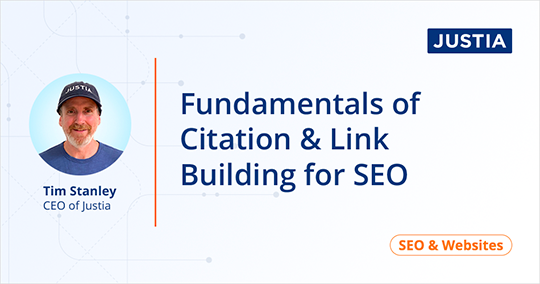
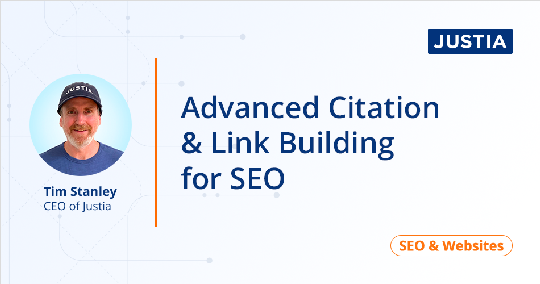
feat: add two weeks and one week blasts

diff --git a/dist/webinar-two-week-registered.html b/dist/webinar-two-week-registered.html
@@ -149,7 +149,7 @@
                   <table border="0" cellpadding="0" cellspacing="0" align="center" width="100%">
                     <tr>
                       <td class="justia01 justia03" style="padding:50px 0 0" align="center">
-                        <a href="https://us06web.zoom.us/webinar/register/4316612882330/WN_1zpGwoa1R1m5eNWIK7RCYw" target="_blank" style="text-decoration:none;color:#06357a"><img src="https://justatic.com/v/0/emails/images/newsletters/2022/09/webinar-registration.jpg" alt border="0" style="display:block;max-width:100%" width="540"/></a>
+                        <a href="https://us06web.zoom.us/webinar/register/4316612882330/WN_1zpGwoa1R1m5eNWIK7RCYw" target="_blank" style="text-decoration:none;color:#06357a"><img src="https://justatic.com/v/0/emails/images/newsletters/2022/09/webinar-registered.jpg" alt border="0" style="display:block;max-width:100%" width="540"/></a>
                       </td>
                     </tr>
                   </table>
@@ -174,24 +174,15 @@
             <tr>
               <td class="justia01" style="padding:0 30px 50px" align="center">
                 <div style="display:block;border:1px solid #e6e6e6;border-radius:10px;padding:25px 24px 15px">
-                  <p style="font:16px/1.5 Arial,sans-serif;margin:0 0 25px;text-align:left;color:#000">Name,</p>
+                  <p style="font:16px/1.5 Arial,sans-serif;margin:0 0 25px;text-align:left;color:#000">Hi Name,</p>
+                  <p style="font:16px/1.5 Arial,sans-serif;margin:0 0 25px;text-align:left;color:#000">In two short weeks, you will be learning advanced internal and external linking strategies, how to analyze your law firm website’s backlink profile, and more in our members-only webinar with Justia CEO Tim Stanley!</p>
                   <p style="font:16px/1.5 Arial,sans-serif;margin:0 0 25px;text-align:left;color:#000">
-                    Today’s the day! <b><a href="https://us06web.zoom.us/webinar/register/4316612882330/WN_1zpGwoa1R1m5eNWIK7RCYw" target="_blank" style="text-decoration:none;color:#06357a;text-align:left;font-weight:700">Registration is open</a></b> to all Justia Connect members for our next Justia Webinar.
+                    You should have received an email from Zoom with your unique access link for this webinar. If you have not already received this email from Zoom, please <b><a href="http://support.justia.com/" target="_blank" style="text-decoration:none;color:#06357a;text-align:left;font-weight:700">contact Justia Support</a></b> for assistance.
                   </p>
-                  <p style="font:16px/1.5 Arial,sans-serif;margin:0 0 25px;text-align:left;color:#000">We’re continuing our series on law firm website SEO on September 28, 2022 when Justia CEO Tim Stanley explores advanced strategies for citation and link building to improve your site’s performance in Google Search results.</p>
                   <div>
-                    <p style="font:16px/1.5 Arial,sans-serif;color:#000;margin:0;text-align:center">
-                      <b>Seats are going fast!<br />Don’t miss your chance to join this exclusive presentation.</b>
+                    <p style="font:16px/1.5 Arial,sans-serif;text-align:center;color:#000;padding:12px 0;margin:0 0">
+                      <b>Can’t make your webinar?</b> The recording will be available to Justia Connect Pros. Unlock access when you <b><a href="#" target="_blank" style="text-decoration:none;color:#06357a;text-align:left;font-weight:700">Go Pro!</a></b>
                     </p>
-                  </div>
-                  <div style="padding:25px 30px 15px;text-align:center">
-                    <div>
-                      <!--[if gte mso 9]><v:roundrect xmlns:v="urn:schemas-microsoft-com:vml" xmlns:w="urn:schemas-microsoft-com:office:word" href="https://us06web.zoom.us/webinar/register/4316612882330/WN_1zpGwoa1R1m5eNWIK7RCYw" style="width:250px;height:50px;v-text-anchor:middle" arcsize="8%" strokecolor="#e2231a" fillcolor="#e2231a"><w:anchorlock /><center style="color:#ffffff;font:bold 16px Arial,sans-serif">Get on the Guest List</center></v:roundrect><![endif]-->
-                      <a href="https://us06web.zoom.us/webinar/register/4316612882330/WN_1zpGwoa1R1m5eNWIK7RCYw" style="font-weight:700;display:inline-block;border:1px solid #e2231a;border-radius:4px;background-color:#e2231a;color:#fff;width:248px;text-align:center;text-decoration:none;-webkit-text-size-adjust:none;mso-hide:all;font:bold 16px/48px Arial,sans-serif" target="_blank">Get on the Guest List</a>
-                    </div>
-                  </div>
-                  <div>
-                    <p style="font:16px/1.5 Arial,sans-serif;text-align:center;color:#000;padding:12px 0;margin:0 0"><b>Already registered?</b><br />No need to register again! We have you on our list and look forward to seeing you on September 28.</p>
                   </div>
                 </div>
               </td>

diff --git a/dist/webinar-two-week-unregistered.html b/dist/webinar-two-week-unregistered.html
@@ -175,19 +175,14 @@
               <td class="justia01" style="padding:0 30px 50px" align="center">
                 <div style="display:block;border:1px solid #e6e6e6;border-radius:10px;padding:25px 24px 15px">
                   <p style="font:16px/1.5 Arial,sans-serif;margin:0 0 25px;text-align:left;color:#000">Name,</p>
+                  <p style="font:16px/1.5 Arial,sans-serif;margin:0 0 25px;text-align:left;color:#000">Ever wondered how to respond to a Google penalty? Want to know more about tools for analyzing your backlink profile? We have answers!</p>
                   <p style="font:16px/1.5 Arial,sans-serif;margin:0 0 25px;text-align:left;color:#000">
-                    Today’s the day! <b><a href="https://us06web.zoom.us/webinar/register/4316612882330/WN_1zpGwoa1R1m5eNWIK7RCYw" target="_blank" style="text-decoration:none;color:#06357a;text-align:left;font-weight:700">Registration is open</a></b> to all Justia Connect members for our next Justia Webinar.
+                    In just two weeks, Justia CEO and SEO expert Tim Stanley continues our series of webinars on law firm website SEO where he will explore these questions and more. The presentation begins promptly at 11:00am PT on September 28 so <b><a href="https://us06web.zoom.us/webinar/register/4316612882330/WN_1zpGwoa1R1m5eNWIK7RCYw" target="_blank" style="text-decoration:none;color:#06357a;text-align:left;font-weight:700">RSVP today</a></b> and mark your calendars!
                   </p>
-                  <p style="font:16px/1.5 Arial,sans-serif;margin:0 0 25px;text-align:left;color:#000">We’re continuing our series on law firm website SEO on September 28, 2022 when Justia CEO Tim Stanley explores advanced strategies for citation and link building to improve your site’s performance in Google Search results.</p>
-                  <div>
-                    <p style="font:16px/1.5 Arial,sans-serif;color:#000;margin:0;text-align:center">
-                      <b>Seats are going fast!<br />Don’t miss your chance to join this exclusive presentation.</b>
-                    </p>
-                  </div>
                   <div style="padding:25px 30px 15px;text-align:center">
                     <div>
-                      <!--[if gte mso 9]><v:roundrect xmlns:v="urn:schemas-microsoft-com:vml" xmlns:w="urn:schemas-microsoft-com:office:word" href="https://us06web.zoom.us/webinar/register/4316612882330/WN_1zpGwoa1R1m5eNWIK7RCYw" style="width:250px;height:50px;v-text-anchor:middle" arcsize="8%" strokecolor="#e2231a" fillcolor="#e2231a"><w:anchorlock /><center style="color:#ffffff;font:bold 16px Arial,sans-serif">Get on the Guest List</center></v:roundrect><![endif]-->
-                      <a href="https://us06web.zoom.us/webinar/register/4316612882330/WN_1zpGwoa1R1m5eNWIK7RCYw" style="font-weight:700;display:inline-block;border:1px solid #e2231a;border-radius:4px;background-color:#e2231a;color:#fff;width:248px;text-align:center;text-decoration:none;-webkit-text-size-adjust:none;mso-hide:all;font:bold 16px/48px Arial,sans-serif" target="_blank">Get on the Guest List</a>
+                      <!--[if gte mso 9]><v:roundrect xmlns:v="urn:schemas-microsoft-com:vml" xmlns:w="urn:schemas-microsoft-com:office:word" href="https://us06web.zoom.us/webinar/register/4316612882330/WN_1zpGwoa1R1m5eNWIK7RCYw" style="width:250px;height:50px;v-text-anchor:middle" arcsize="8%" strokecolor="#e2231a" fillcolor="#e2231a"><w:anchorlock /><center style="color:#ffffff;font:bold 16px Arial,sans-serif">RSVP Today</center></v:roundrect><![endif]-->
+                      <a href="https://us06web.zoom.us/webinar/register/4316612882330/WN_1zpGwoa1R1m5eNWIK7RCYw" style="font-weight:700;display:inline-block;border:1px solid #e2231a;border-radius:4px;background-color:#e2231a;color:#fff;width:248px;text-align:center;text-decoration:none;-webkit-text-size-adjust:none;mso-hide:all;font:bold 16px/48px Arial,sans-serif" target="_blank">RSVP Today</a>
                     </div>
                   </div>
                   <div>

diff --git a/grunt/sftp-deploy.js b/grunt/sftp-deploy.js
@@ -1,7 +1,7 @@
 module.exports = {
     images: {
         auth: {
-            host: 'justatic.justiapro.com',
+            host: '192.168.88.191',
             authKey: 'key1'
         },
         src: '<%= relativeFolders.distImg %>',
